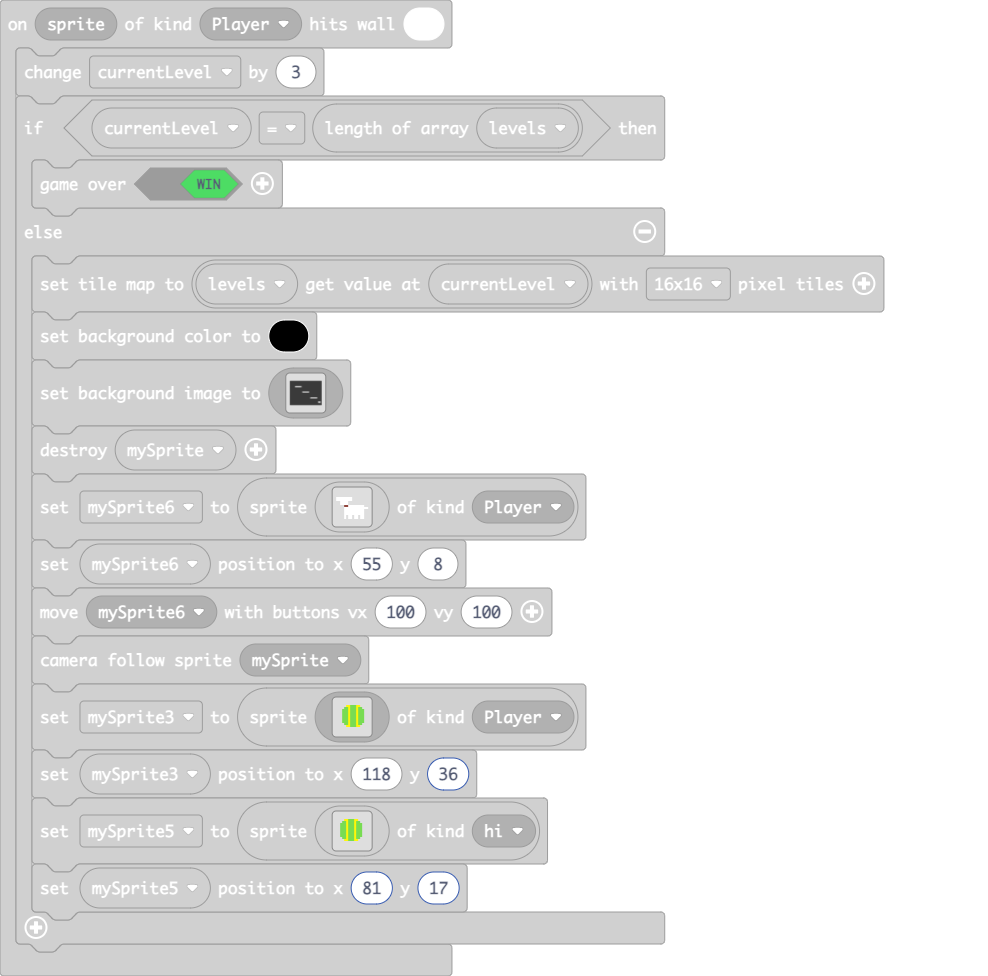
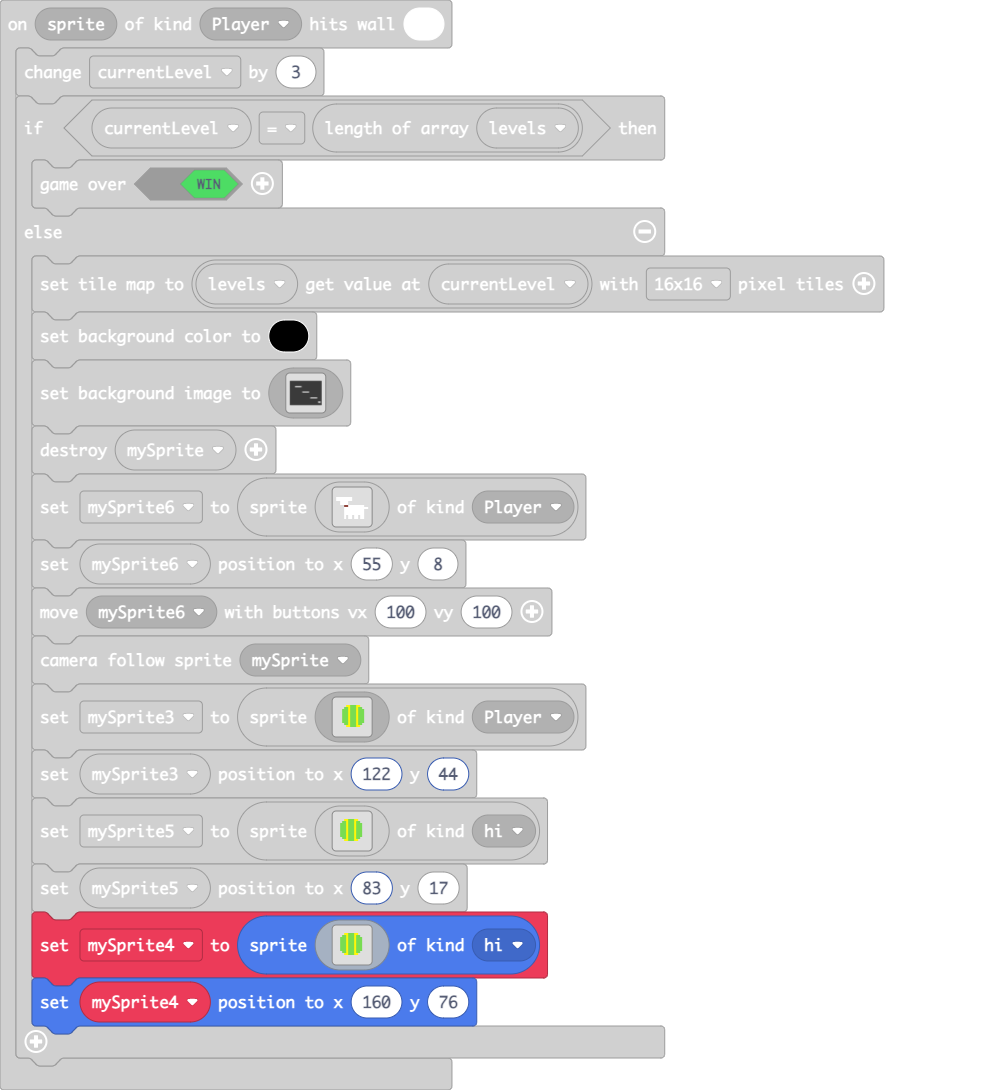
Update main.blocks, main.ts

Changed region(s): [[0.0304, 0.0, 0.9109, 0.9836]]

diff --git a/main.ts b/main.ts
@@ -933,7 +933,7 @@ scene.onHitTile(SpriteKind.Player, 1, function (sprite) {
             . . . . . . . . . . . . . . . . 
             . . . . . . . . . . . . . . . . 
             `, SpriteKind.Player)
-        mySprite3.setPosition(118, 36)
+        mySprite3.setPosition(122, 44)
         mySprite5 = sprites.create(img`
             . . . . . . . . . . . . . . . . 
             . . . . . . . . . . . . . . . . 
@@ -952,7 +952,26 @@ scene.onHitTile(SpriteKind.Player, 1, function (sprite) {
             . . . . . . . . . . . . . . . . 
             . . . . . . . . . . . . . . . . 
             `, SpriteKind.hi)
-        mySprite5.setPosition(81, 17)
+        mySprite5.setPosition(83, 17)
+        mySprite4 = sprites.create(img`
+            . . . . . . . . . . . . . . . . 
+            . . . . . . . . . . . . . . . . 
+            . . . . 5 5 7 7 7 5 5 . . . . . 
+            . . . 7 7 5 7 7 7 5 7 7 . . . . 
+            . . 7 7 7 5 7 7 7 5 7 7 7 . . . 
+            . . 7 7 7 5 7 7 7 5 7 7 7 . . . 
+            . . 7 7 7 5 7 7 7 5 7 7 7 . . . 
+            . . 7 7 7 5 7 7 7 5 7 7 7 . . . 
+            . . 7 7 7 5 7 7 7 5 7 7 7 . . . 
+            . . 7 7 7 5 7 7 7 5 7 7 7 . . . 
+            . . 7 7 7 5 7 7 7 5 7 7 7 . . . 
+            . . . 7 7 5 7 7 7 5 7 7 . . . . 
+            . . . . 5 5 7 7 7 5 5 . . . . . 
+            . . . . . . . . . . . . . . . . 
+            . . . . . . . . . . . . . . . . 
+            . . . . . . . . . . . . . . . . 
+            `, SpriteKind.hi)
+        mySprite4.setPosition(160, 76)
     }
 })
 sprites.onOverlap(SpriteKind.Player, SpriteKind.kieran, function (sprite, otherSprite) {
